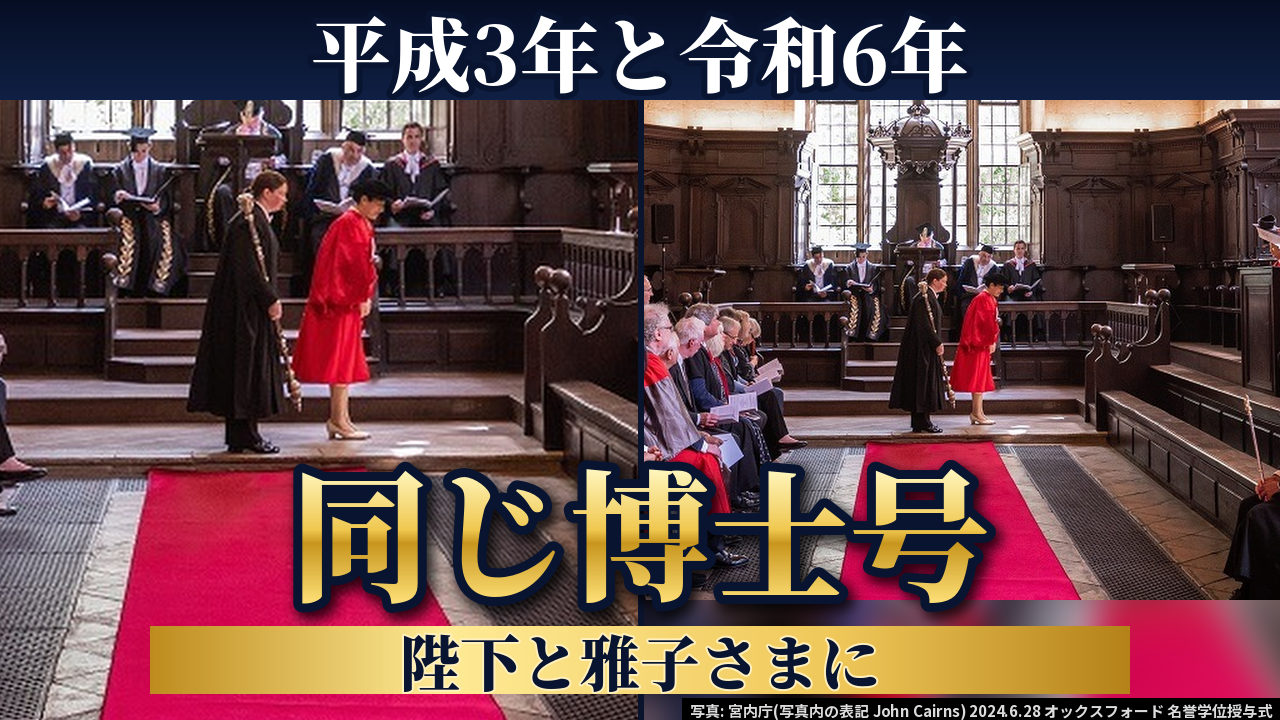
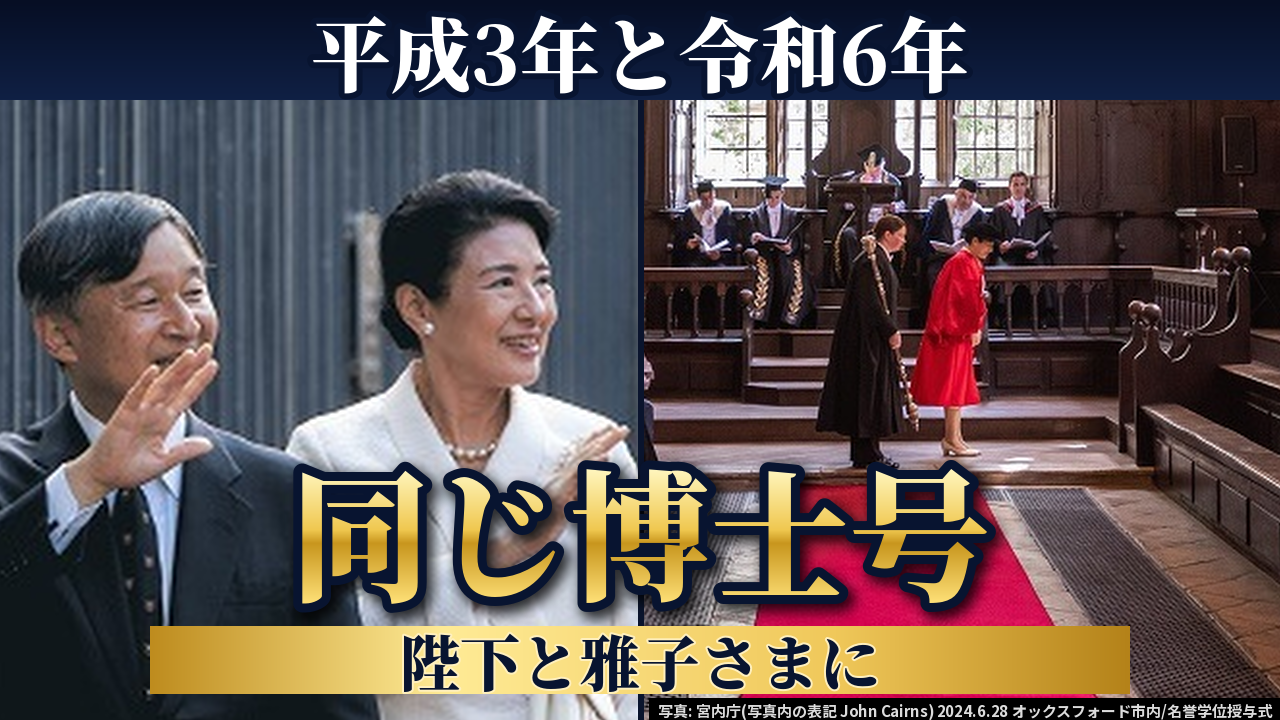
L1 表紙B 作り直し
Claude-Session: https://claude.ai/code/session_01BJaPieHBuTRAAQkfULpzEX

diff --git a/projects/KB-20261124-01/thumb/make_thumbs.py b/projects/KB-20261124-01/thumb/make_thumbs.py
@@ -3,7 +3,7 @@ python3 projects/KB-20261124-01/thumb/make_thumbs.py で thumb_A.png・thumb_B.p
 写真は宮内庁(英国ご訪問 報告 7日目・写真内の表記 John Cairns)。切り抜き・拡大縮小のみ。文字はそれぞれのタイトルの言葉から取る。
 2026-11-24 直し係: 競合の深掘り調査の反映で作り直し。
   A = 型D(金の帯あり)。お二人が同じガウンで並ぶ A049 から、左に皇后陛下・右に天皇陛下(2026-11-24 再点検の直し: 写真1枚版 type_D_wide はやめ、型を守る)
-  B = 型D。授与式の A048(左: ガウン姿の皇后陛下の寄り / 右: 式の会場)。帯は題名Bの言葉「陛下と雅子さまに」。ガウン姿でない A050 は使わない
+  B = 型D(人物＋場所)。左: 同じ6月28日のオックスフォード市内のお二人 A050 / 右: 授与式の会場 A048。帯は題名Bの言葉「陛下と雅子さまに」(2026-11-24 決まりの確認係の指摘で作り直し)
   C = 型D(左: ベイリオル・コレッジのお二人 A047 / 右: マートン・コレッジの桜の植樹式 A051)。お顔が小さい A052 は使わない"""
 import sys
 from pathlib import Path
@@ -22,11 +22,24 @@ O = str(Path(__file__).resolve().parent) + "/"
 type_D(O + "thumb_A.png", A + "A049.jpg", (0.487, 0.432, 0.098), A + "A049.jpg", (0.722, 0.447, 0.098),
        "陛下が会見で「雅子にも」", "同じ博士号とは？", "雅子さま34年ぶりのオックスフォード",
        "写真: 宮内庁(写真内の表記 John Cairns) 2024.6.28 オックスフォード 名誉学位授与式")
-# B 数字・事実型(型D・人物＋場所): 名誉学位授与式の写真(A048)。左=ガウン姿で式に臨まれる皇后陛下(寄り)、右=式の会場(引き)。
-#   どちらも、皇后陛下のお姿が金の一言(y455〜)より上に収まり、座っている参列者のお顔が文字の下に入らない切り抜き
-type_D(O + "thumb_B.png", A + "A048.jpg", (0.505, 0.695, 0.1224, "scene"), A + "A048.jpg", (0.5, 0.645, 0.2105, "scene"),
+# B 数字・事実型(型D・人物＋場所)【2026-11-24 決まりの確認係の指摘(rules_check.md ⑨)で作り直し】
+#   左=同じ6月28日、オックスフォード市内をご散策になるお二人(A050)。右=名誉学位授与式の会場(A048・場所として)。
+#   帯・金の一言・上の帯はガウンのことを言っていないので、ガウン姿でない A050 でも文字と写真が食い違わない。
+#   左: お二人のお顔の中間をパネルの中央(x320・y305)に置く。お二人の頭が幅640pxのパネルに収まる上限として
+#       お顔の高さは約155px(型Dの目安175pxだと天皇陛下の頭が左に見切れるため。倍率3.16)。同行の方(右の女性)はパネルの外。
+#   右: 倍率1.93。写真が上の帯の下(y100)から画面の下端(y720)まで届き、ぼかしで埋めた部分が見えない(下端の境目なし)。
+#       皇后陛下のお姿は金の一言(y455〜)より上。座っている参列者のお顔は切り抜きの中に入らない。
+B_S = 3.16                                    # 左の倍率(元の写真 665×1000)
+B_FACES = [(150, 472, 49, 49), (274, 469, 49, 49)]   # A050 のお顔の枠(元の写真のpx): 天皇陛下・皇后陛下
+B_MID = (236, 495)                            # お二人のお顔の中間
+type_D(O + "thumb_B.png", A + "A050.jpg", (B_MID[0] / 665, B_MID[1] / 1000, 175 / B_S / 1000, "scene"),
+       A + "A048.jpg", (0.518, 0.671, 0.13635, "scene"),
        "平成3年と令和6年", "同じ博士号", "陛下と雅子さまに",
-       "写真: 宮内庁(写真内の表記 John Cairns) 2024.6.28 オックスフォード 名誉学位授与式")
+       "写真: 宮内庁(写真内の表記 John Cairns) 2024.6.28 オックスフォード市内/名誉学位授与式")
+#   型D は左の写真を「場所」扱い(4つ組)で置いたので、お二人それぞれのお顔の枠で check_faces をかけ直す(見切れ・文字との重なり)
+_b = [(320 + (x - B_MID[0]) * B_S, 305 + (y - B_MID[1]) * B_S, w * B_S, h * B_S) for (x, y, w, h) in B_FACES]
+if not check_faces(O + "thumb_B.png(左のお二人)", _b, [(0, 0, W, 100), (110, 455, 1170, 720), (640, 0, W, H)]):
+    raise SystemExit("表紙B: お顔が文字と重なるか見切れています")
 # C 実際のお言葉×物語(型D): ベイリオル・コレッジのお二人(A047)と、マートン・コレッジの桜の植樹式(A051・場所として)
 type_D(O + "thumb_C.png", A + "A047.jpg", (0.235, 0.36, 0.165), A + "A051.jpg", (0.545, 0.42, 0.243, "scene"),
        "陛下が語られた", "「唯一避ける話題」", "雅子さまと語り合う留学の思い出",

diff --git a/projects/KB-20261124-01/fixes.md b/projects/KB-20261124-01/fixes.md
@@ -164,3 +164,14 @@
 - ハッシュタグ #おことば は検索語として残した。説明文の参考資料の「英国ご訪問時のおことば(一覧)」は宮内庁のページ名なのでそのまま
 - 推奨のうち 006 の2枚目・014「1つ」・038・046 は今回の指示に入っていないので直していない
 - output/ の動画・音声・字幕は古い版のまま。state.json は書き換えていない
+
+## 2026-11-24 表紙Bの作り直し(決まりの確認係 再採点 ⑨ の指摘)
+直したのは表紙Bだけ。台本・scenes.json・output・表紙A・表紙Cには触っていない(A・C は作り直し前後でファイルが同一)。
+- thumb/make_thumbs.py: 表紙Bを「人物＋場所」の型Dにした。左 = A050(2024-06-28 オックスフォード市内をご散策になるお二人)、右 = A048(名誉学位授与式の会場)。上の帯「平成3年と令和6年」・金の一言「同じ博士号」・帯「陛下と雅子さまに」は変更なし。クレジットは「…オックスフォード市内/名誉学位授与式」
+- 左: お二人のお顔の中間をパネルの中央(x320・y305)に置いた。お顔の高さは約155px(倍率3.16)。同行の方はパネルの外で写っていない
+- 右: 倍率を1.25→1.93にして、写真を上の帯の下から画面の下端(y720)まで届かせた。ぼかしで埋めた部分が見えなくなり、y600〜625 のピンクの境目はなくなった。皇后陛下のお姿は金の一言(y455〜)より上。座っている参列者のお顔は切り抜きに入っていない(左端に参列者の髪と資料の端が数px写るだけ)
+- 検査: check_faces(お二人それぞれの頭の範囲で、上の帯・金の一言・帯との重なりと見切れ)通過、credit 通過。拡大して目でも確認した
+- thumb.yaml(photos に A050 を追加・note を更新)、ledger.csv(A050 の使用先に「表紙B」を追加)
+### 要確認
+- 左のお顔の高さは型Dの目安175pxではなく約155px。お二人が寄り添って写っているので、175pxにすると天皇陛下の頭が画面の左に見切れる(check_faces 不合格)。幅640pxに収まる上限にした。これで良いか確認係に見てほしい
+- A050 は長辺1000pxを約3.2倍に拡大している(表紙Aの A049 は約2.7倍)。お顔は見分けられるが、少しやわらかい写り
